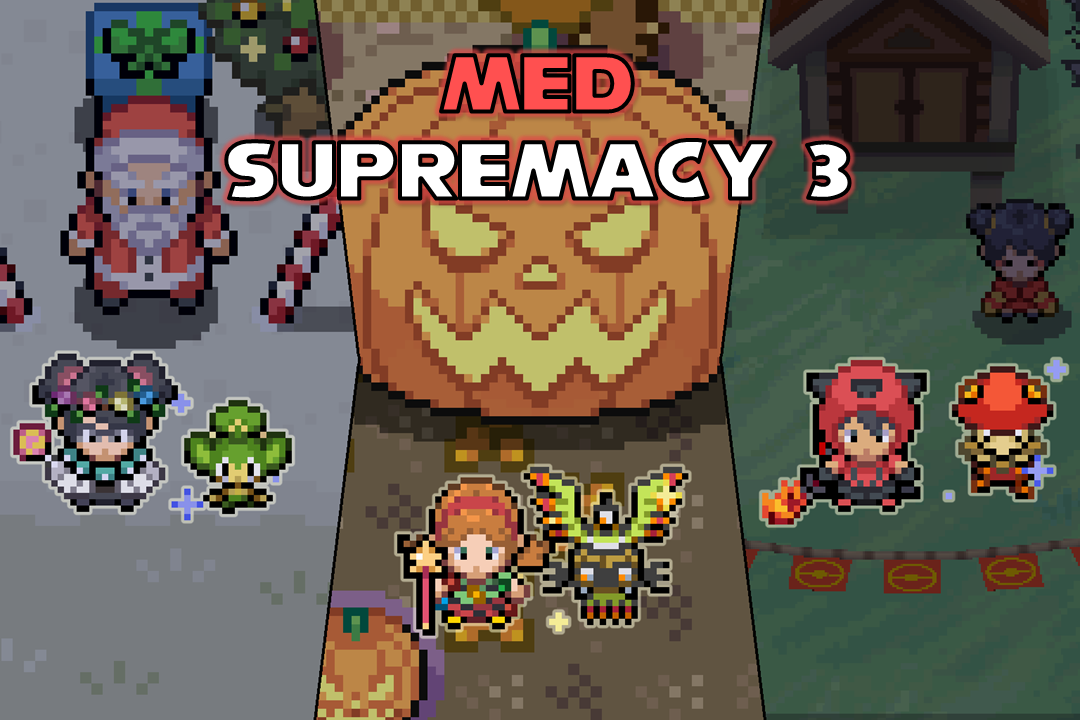
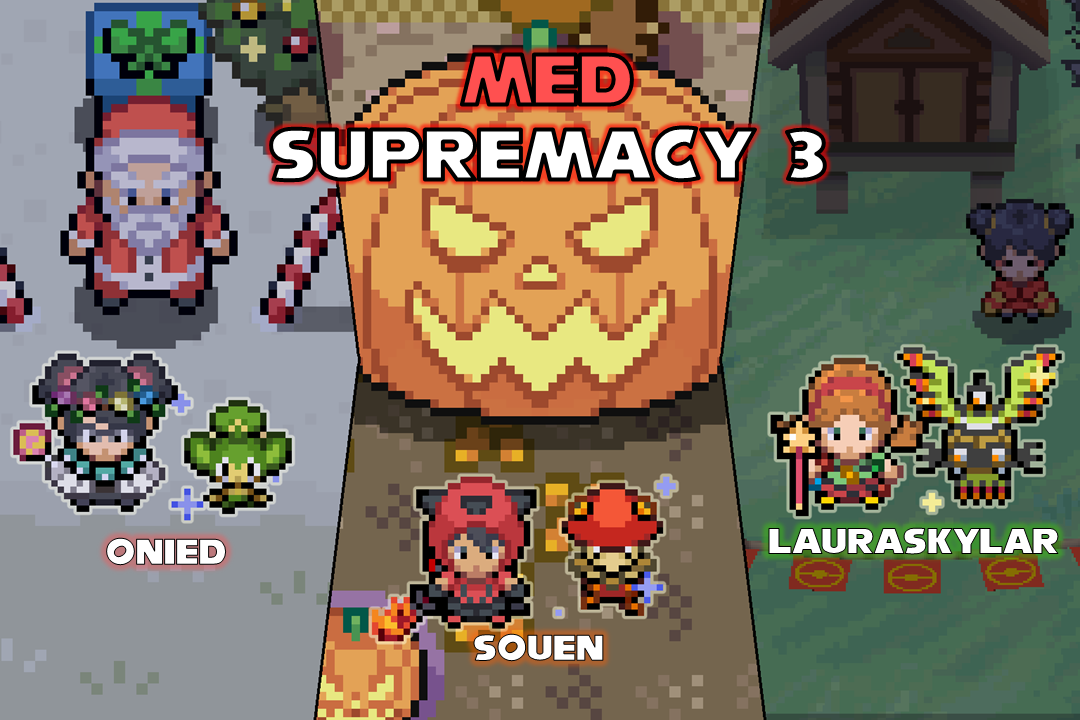
pick

diff --git a/scripts/pickeos.js b/scripts/pickeos.js
@@ -1,8 +1,16 @@
 const lideres = [
   { nombre: "Team Navidad", user: "OniED" },
-  { nombre: "Team Halloween", user: "LauraSkylar" },
-  { nombre: "Team Año Nuevo", user: "Souen" }
+  { nombre: "Team Halloween", user: "Souen" },
+  { nombre: "Team Año Nuevo", user: "LauraSkylar" }
 ];
+
+
+function asignarInicial(card, liderUser, team) {
+    card.classList.add(`card-team-${team}`);
+    const removeBtn = card.querySelector(".card-remove-btn");
+    if (removeBtn) removeBtn.style.display = "block";
+}
+
 
 const equiposContainer = document.getElementById("equipos-container");
 
@@ -20,7 +28,7 @@ lideres.forEach(lider => {
       <p class="mb-4 text-center" style="font-family: 'Retro'; font-size: 32px">${lider.user}</p>
 
       <ul id="lista-${lider.user}"
-          class="mt-2 flex flex-col gap-2 text-center"></ul>
+          class="mt-2 flex flex-wrap gap-2 justify-center w-full"></ul>
     </div>
   `;
 
@@ -80,6 +88,18 @@ participantesArray.forEach(p => {
         card.appendChild(close);
 
         card.id = `${p.participante}`;
+        lideres.forEach(l => {
+            if (p.participante === l.user) {
+                let team =
+                    l.nombre.includes("Navidad") ? "Navidad" :
+                    l.nombre.includes("Halloween") ? "Halloween" :
+                    "Nuevoyear";
+
+                asignarInicial(card, l.user, team);
+                close.style.pointerEvents = "none";
+                close.style.opacity = "0.0";
+            }
+        });
     } else {
         card.className = "none-card";
 
@@ -121,17 +141,35 @@ modal.addEventListener("click", (e) => {
   }
 });
 
+
 let lista_lider = null
 
 function handlelist(lider, team, action){
     lista_lider = document.getElementById(`lista-${lider}`);
     let miembroT = null;
     if(action == 'add'){
-        miembroT = document.createElement('div');
-        miembroT.textContent = participanteSeleccionado;
+        const miembroT = document.createElement('div');
+        miembroT.className = 'miembro-holder';
+        miembroT.style = `border-image-source: url("../img/button/${team}-container.png");`
+
+        const img = document.createElement('img');
+        img.className = 'miembro-img';
+        img.src = `../Members_sprites/${participanteSeleccionado}.png`;
+        img.onerror = function () {
+            this.src = `../Members_sprites/Placeholder.png`;
+        };
+
+        const name = document.createElement('span');
+        name.className = 'miembro-name';
+        name.textContent = participanteSeleccionado;
+
         miembroT.id = `${team}-${participanteSeleccionado}`;
+
+        miembroT.appendChild(img);
+        miembroT.appendChild(name);
+
         lista_lider.appendChild(miembroT);
-        currentcard.classList.add(`card-team-${team}`);    
+        currentcard.classList.add(`card-team-${team}`); 
     }
     else{
         miembroT = document.getElementById(`${team}-${action}`);
@@ -141,13 +179,13 @@ function handlelist(lider, team, action){
 }
 
 function add(team){
-        if(team == "Navidad"){
-            handlelist('OniED',team, 'add');
-        }else if(team == "Halloween"){
-            handlelist('LauraSkylar',team, 'add');
-        }else if(team == "Nuevoyear"){
-            handlelist('Souen',team, 'add');
-        }
+    if(team == "Navidad"){
+        handlelist('OniED',team, 'add');
+    }else if(team == "Halloween"){
+        handlelist('LauraSkylar',team, 'add');
+    }else if(team == "Nuevoyear"){
+        handlelist('Souen',team, 'add');
+    }
 
     const removeBtn = currentcard.querySelector(".card-remove-btn");
     if (removeBtn) removeBtn.style.display = "block";

diff --git a/scripts/info.js b/scripts/info.js
@@ -249,7 +249,7 @@ const memberData = {
         },
         Dohrito: {      name:'Dohrito',
                         rol: 'Chad',
-                        medallas:['m_meditite','m_secret','m_shunter','m_raceL','m_rare','m_mundo','m_supremacy2'],
+                        medallas:['m_meditite','m_secret','m_shunter','m_raceL','m_rare','m_mundo','m_pecador','m_supremacy2'],
                         shinys:['medicham','beedrill','gliscor','jynx','marill','wooper','sealeo','magikarp','rapidash','rapidash','dratini','electrike','stunfisk','druddigon','poliwag','swablu','wingull','pelipper','psyduck',
                                 'hypno','amoonguss','dunsparce','cubchoo','beartic','cryogonal','vanillite','vanillish','vanilluxe','crustle','grimer','torkoal','litwick','camerupt','magnezone','mareep','tentacruel','wurmple',
                                 'wurmple','weezing','vulpix','accelgor','shuppet','lopunny','teddiursa','quagsire','smeargle','spinarak','slugma','gible','mienfoo'

diff --git a/styles/supremacy.css b/styles/supremacy.css
@@ -85,7 +85,7 @@
 .lny-btn:hover {
   border-image-source: url("../img/button/button-showcase-hover-lny.png");
 }
-.lny-btn:disabled {
+.lny-btn:disabled {  
   border-image-source: url("../img/button/button-showcase-disabled-lny.png");
 }
 
@@ -106,4 +106,29 @@
 }
 .xmas-btn:disabled {
   border-image-source: url("../img/button/button-showcase-disabled-xmas.png");
+}
+
+.miembro-holder {
+  color: rgba(255, 255, 255, 0.815);
+  font-size: 1.875rem;
+  padding: 5px 3px 5px 0px;
+  border-width: 0px 5px 0px 5px;
+  border-style: solid;
+  font-family: 'Retro';
+  height: 55px;
+  border-image-slice: 0 5 0 5 fill;
+  display: flex;
+  align-items: center;
+  gap: 6px;
+  white-space: nowrap;
+  transition: border-image-source 0.2s ease;
+}
+
+.miembro-img {
+  height: 100%;
+  border-radius: 5px;
+}
+
+.miembro-name {
+  font-family: 'Retro';
 }

diff --git a/scripts/participantes.js b/scripts/participantes.js
@@ -55,4 +55,5 @@ const participantes =
 53.- xSorC
 54.- Farithi
 55.- wallycbammo
+56.- Ferbus
   `;
